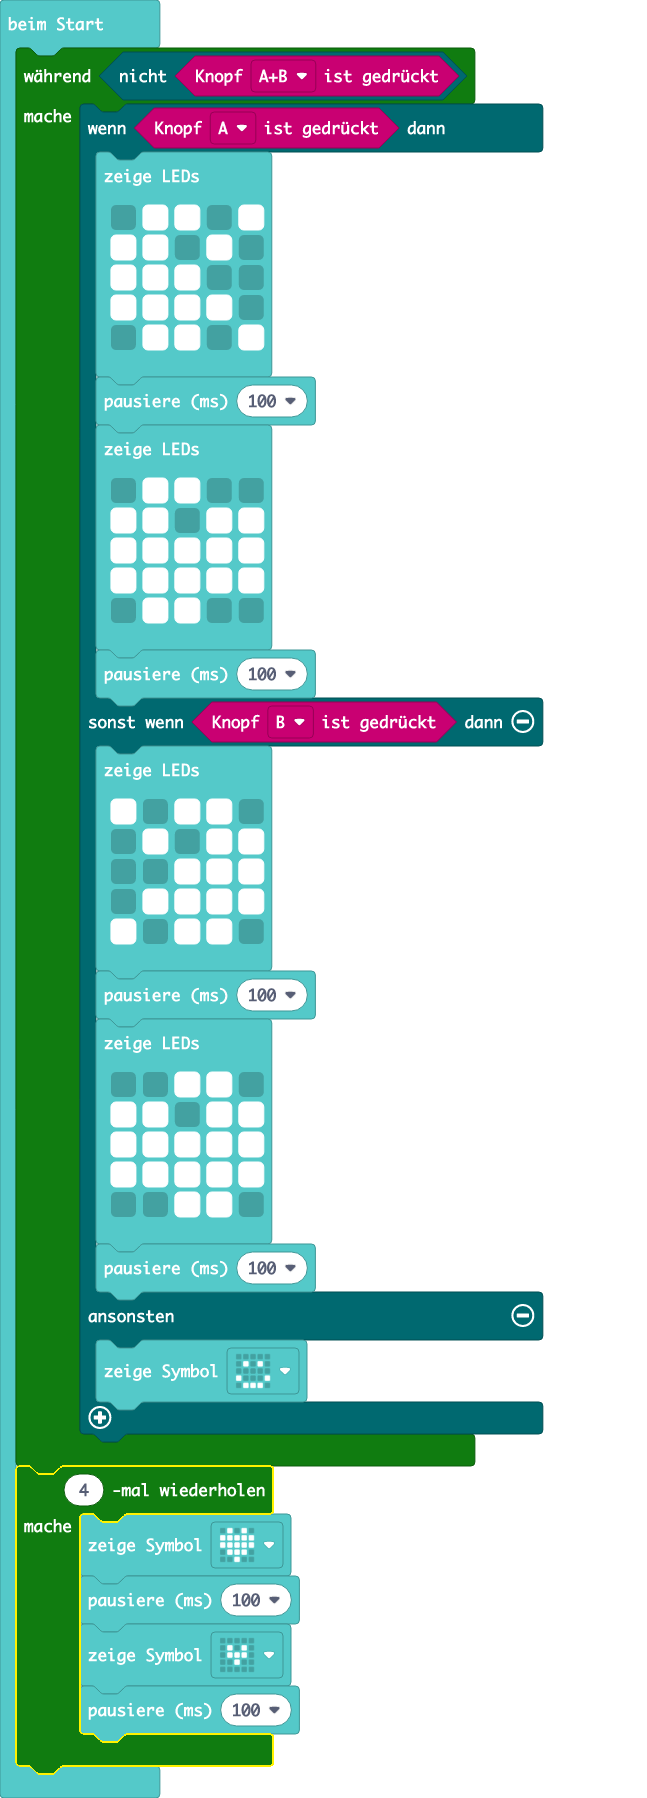
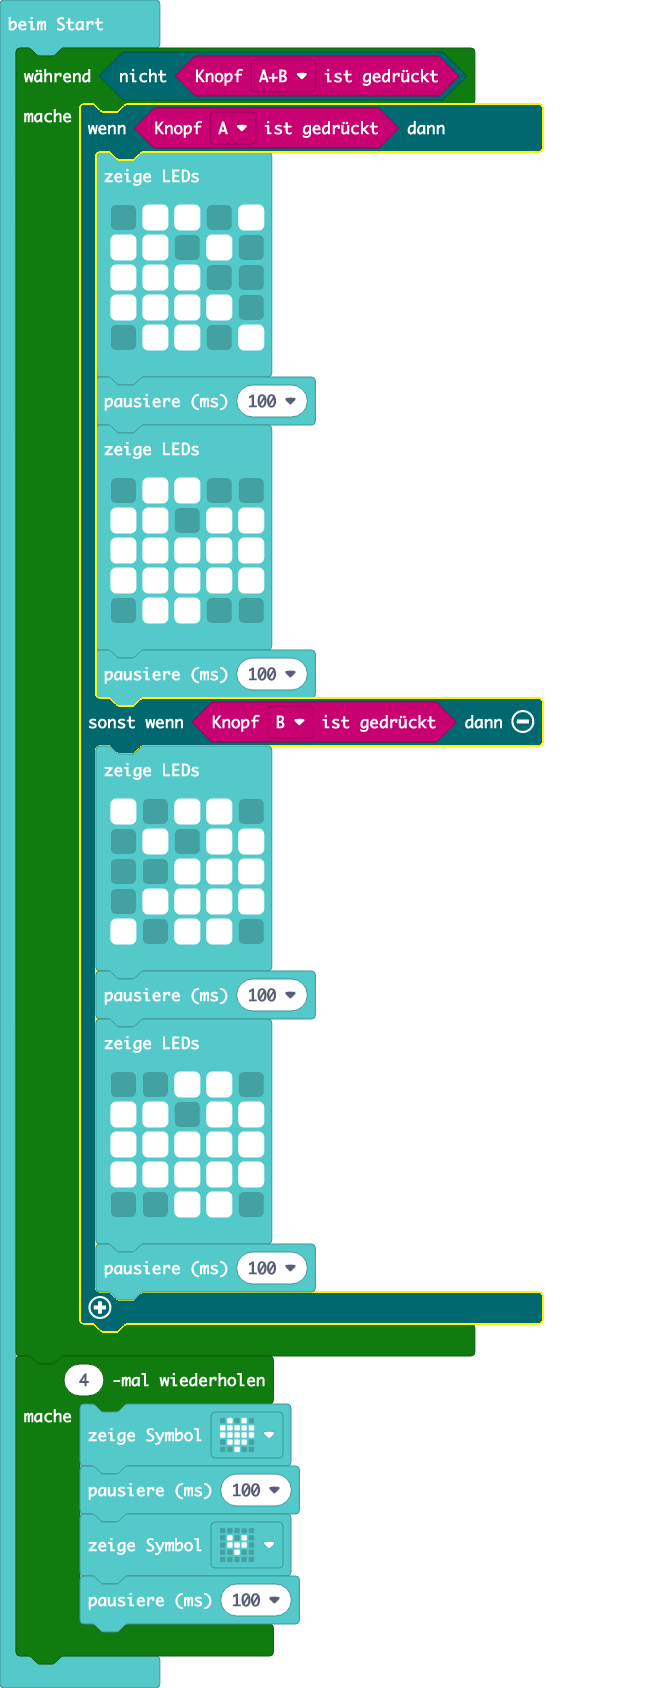
Aktualisiere main.blocks, main.ts

Changed region(s): [[0.0309, 0.0, 0.8655, 0.9858]]

diff --git a/main.ts b/main.ts
@@ -33,8 +33,6 @@ while (!(input.buttonIsPressed(Button.AB))) {
             . . # # .
             `)
         basic.pause(100)
-    } else {
-        basic.showIcon(IconNames.Happy)
     }
 }
 for (let index = 0; index < 4; index++) {
